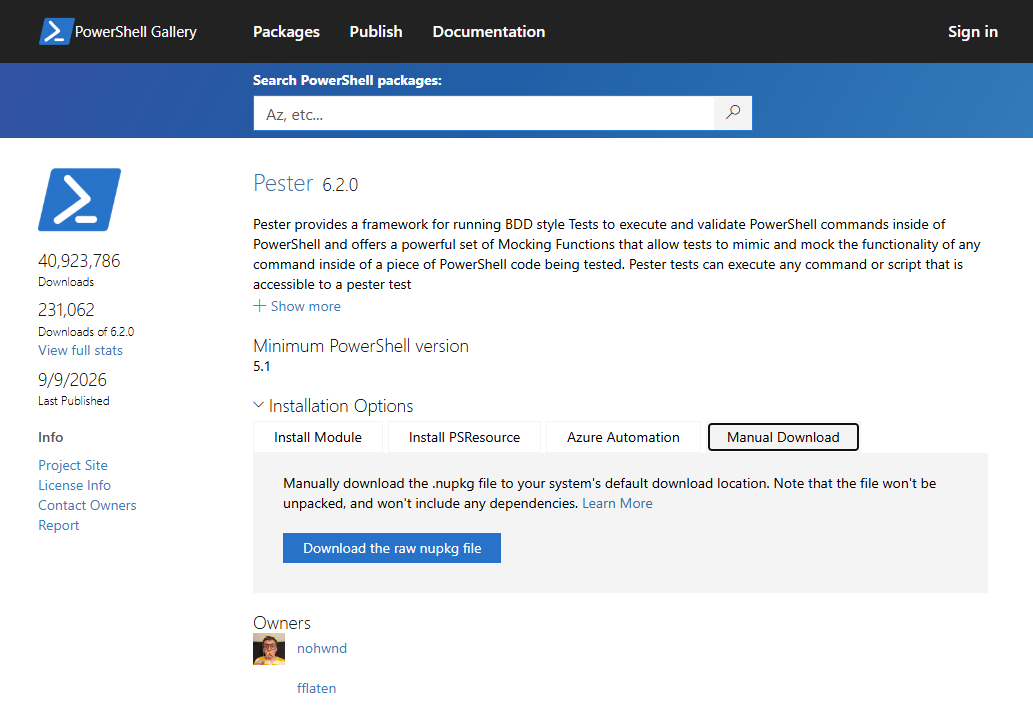
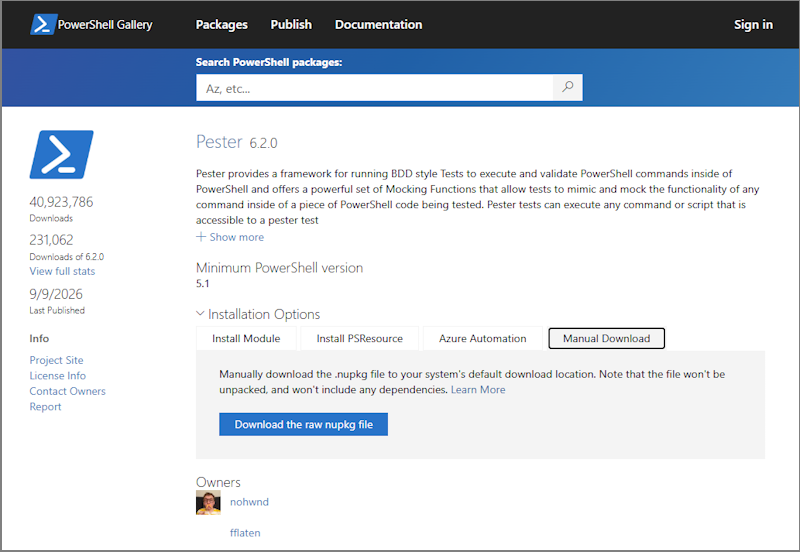
Update image

diff --git a/powershell-gallery/docs-conceptual/how-to/working-with-packages/manual-download.md b/powershell-gallery/docs-conceptual/how-to/working-with-packages/manual-download.md
@@ -21,10 +21,11 @@ can then copy to an internal repository.
 1. In the search box, search for the module or script name.
 1. Select the package you want from the results.
 1. On the package details page under **Installation Options**, select the **Manual Download** tab.
+
+   ![Screenshot of the package details page with install options.][03]
+
 1. Select **Download the raw nupkg file**. A copy of the package is copied to the download folder
    for your browser with the name `<name>.<version>.nupkg`.
-
-   ![Package display page with install options][03]
 
 A NuGet package is a ZIP archive containing information about the contents of the package. To expand
 the package, rename the `.nupkg` file to `.zip` and extract the contents to a local folder using
@@ -90,4 +91,4 @@ For the list of NuGet-specific elements, see [Using manual download to acquire a
 <!-- link references -->
 [01]: #using-manual-download-to-acquire-a-package
 [02]: https://www.powershellgallery.com
-[03]: media/manual-download/manual-download.png
+[03]: media/manual-download/manual-download.png#lightbox
